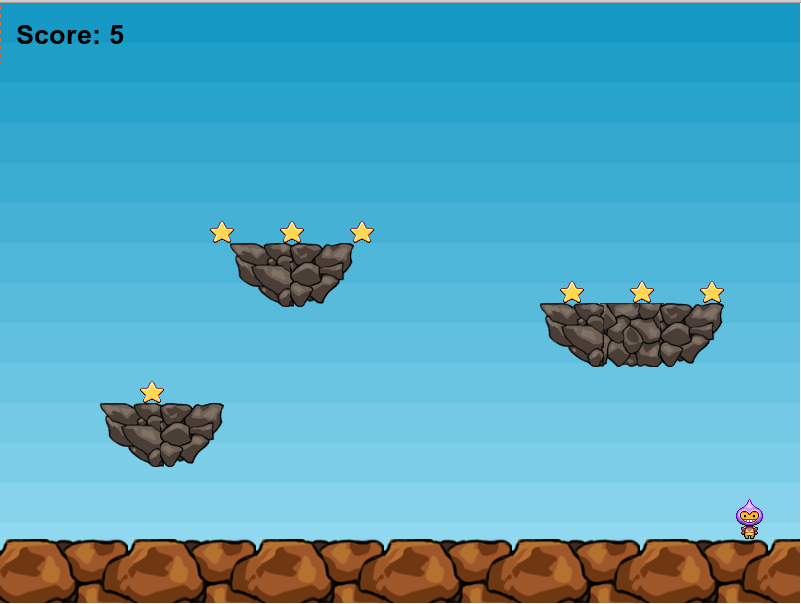
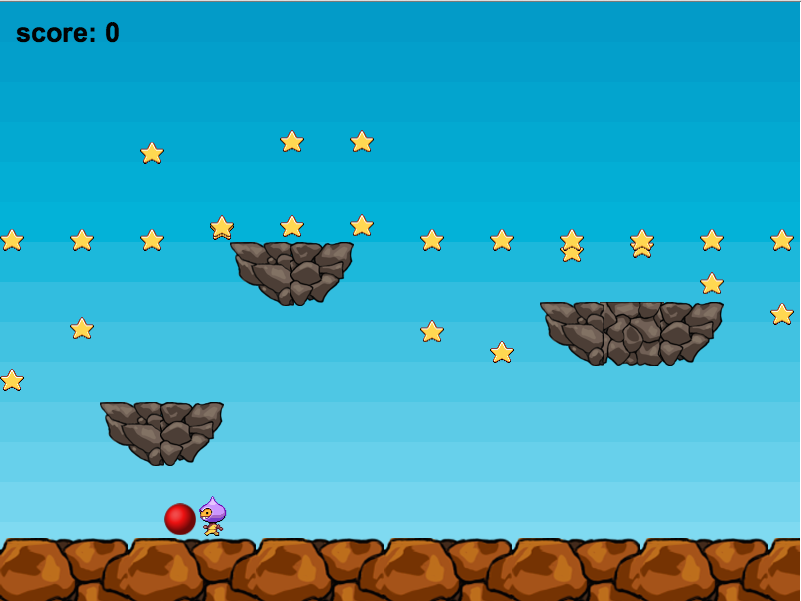
Updating readme with screenshot and news

diff --git a/README.md b/README.md
@@ -1,22 +1,23 @@
 gama - my first game
 ====================
 
-My first [Phaser](http://www.photonstorm.com/phaser)-based game. **Gama** is its name due to a distinct lack of imagination. 
+My first [Phaser](http://www.photonstorm.com/phaser)-based game. **Gama** is its name due to a distinct lack of imagination.
 
 ![gama Screenshot](https://raw.githubusercontent.com/OdinsHat/gama/master/screenshot.png)
 
 Recent Changes
 --------------
+* [2014-04-30] EVIL bouncy sphere providing STARBURST on first 2 hits but afterward will eat your ~BALLS~ STARS!
 * [2014-04-29] Bouncy sphere providing STARBURST!
 * [2014-04-28] Initial release
 
 *I expect it to grow into a AAA title within a month⸮*
 
 Game assets kindly provided by:
-* [Photon Storm](http://www.photonstorm.com/) 
+* [Photon Storm](http://www.photonstorm.com/)
 * [Aetherna](http://opengameart.org/content/2d-platform-ground-stone-tiles)
 * [athile](http://opengameart.org/content/colored-spheres)
- 
+
 \- thank you!
 
 Todo:
